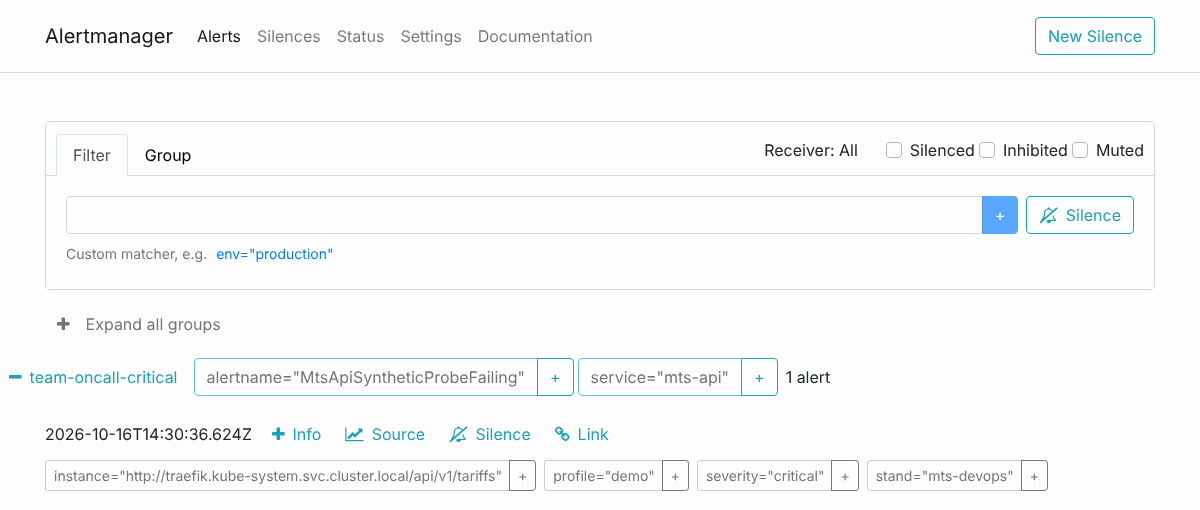
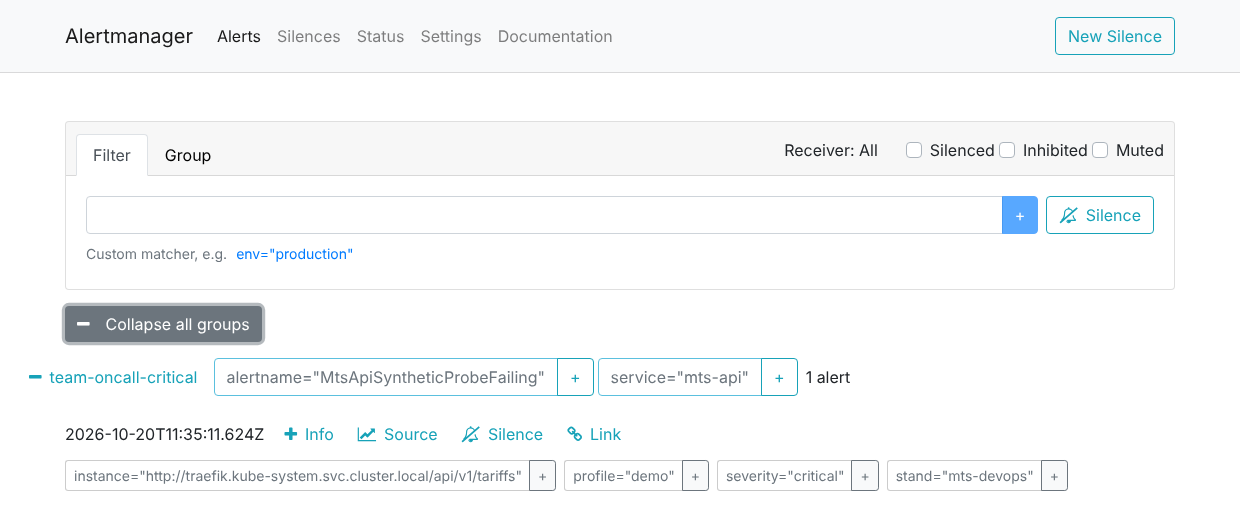
Удобство показа: цвета слотов в Grafana, пауза в demo-alert, исправлен отчёт
- Дашборд: слот blue рисуется синим, green — зелёным; трафик по слотам без
  наложения (видно, какой слот обслуживает пользователей); у панели доли 5xx
  мягкий максимум оси 10% вместо 10000% при нулевых ошибках.
- make demo-alert HOLD=60: сбой держится ещё N с после доставки алерта, чтобы
  на показе успеть открыть Prometheus, Alertmanager и Grafana; значение HOLD
  проверяется до внесения сбоя. По умолчанию поведение прежнее.
- Отчёт о релизе: длинные детали проверок обрезаются внутри code span, «|»
  экранируется — таблица в Markdown больше не ломается; добавлен unit-тест.
- make doctor: «есть доступ: …» вместо «доступен зеркало …».
- README и vm-guide: релиз 75–120 с (первый после перезапуска ВМ дольше —
  обновляется база Trivy), возврат трафика 0,3–1,4 с по всем откатам;
  свежие скриншоты Grafana, Prometheus и Alertmanager.

Claude-Session: https://claude.ai/code/session_01ExcNdxkWc3CDHqJqDTVn4J

diff --git a/scripts/pylib/alertdemo.py b/scripts/pylib/alertdemo.py
@@ -43,6 +43,9 @@ def run_demo(cfg: Config, timeout: float = 240) -> int:
                 raise RuntimeError("нет активного слота")
             deploy = slot_release(slot)
             replicas = int(kube.get_json("deployment", deploy)["spec"]["replicas"])
+            # HOLD=N: сбой держится ещё N с после доставки алерта, чтобы на показе успеть открыть
+            # Prometheus, Alertmanager и Grafana; значение проверяется до внесения сбоя
+            hold = max(0.0, cfg.num("ALERT_HOLD_SECONDS", 0))
             if _alert_state(prom):
                 raise RuntimeError(f"{ALERT} уже активен — дождитесь resolved перед демонстрацией")
             try:
@@ -73,6 +76,13 @@ def run_demo(cfg: Config, timeout: float = 240) -> int:
                         )
                         ok(f"Alertmanager получил алерт, маршрут → {receivers}")
                     time.sleep(2)
+                if hold and "alertmanager_received" in marks:
+                    log(f"держу сбой ещё {hold:g} с: алерт виден в Prometheus, Alertmanager и Grafana")
+                    report.event("fault_held", seconds=hold)
+                    end = time.time() + hold
+                    while time.time() < end:
+                        lock.check()
+                        time.sleep(min(2.0, max(0.0, end - time.time())))
             finally:
                 log(f"восстановление: возвращаю {deploy} к {replicas} репликам")
                 kube.kubectl("scale", "deployment", deploy, f"--replicas={replicas}")

diff --git a/scripts/tests/test_report.py b/scripts/tests/test_report.py
@@ -1,0 +1,35 @@
+"""Unit-тест Markdown-отчёта: длинные и содержащие «|» детали не ломают таблицу проверок."""
+
+from __future__ import annotations
+
+import unittest
+
+from pylib.report import render_markdown
+
+
+class ReportMarkdownTest(unittest.TestCase):
+    def test_check_cells_keep_table_intact(self) -> None:
+        data = {
+            "kind": "release",
+            "id": "v3-notready-1",
+            "decision": "rejected",
+            "reason": None,
+            "started_at": "t0",
+            "finished_at": "t1",
+            "timeline": [],
+            "checks": {
+                "candidate_ready": {"status": "failed", "summary": "helm: upgrade failed | Error: " + "x" * 600},
+                "preview": {"status": "passed", "summary": "16/16"},
+            },
+        }
+        rows = [line for line in render_markdown(data).splitlines() if line.startswith("| candidate_ready")]
+        self.assertEqual(len(rows), 1)
+        row = rows[0]
+        # code span закрыт, а «|» внутри него экранирован: в строке ровно 4 неэкранированных разделителя
+        self.assertEqual(row.count("`"), 2)
+        self.assertEqual(row.replace("\\|", "").count("|"), 4)
+        self.assertIn("…`", row)
+
+
+if __name__ == "__main__":
+    unittest.main()

diff --git a/scripts/pylib/report.py b/scripts/pylib/report.py
@@ -60,6 +60,16 @@ def _fmt(value) -> str:
     return str(value)
 
 
+def _cell(value, limit: int = 400) -> str:
+    """Ячейка Markdown-таблицы: обрезка внутри code span и экранирование «|» (иначе таблица ломается)."""
+    if isinstance(value, (dict, list)):
+        text = json.dumps(value, ensure_ascii=False)
+        if len(text) > limit:
+            text = text[:limit] + "…"
+        return "`" + text.replace("|", "\\|") + "`"
+    return _fmt(value).replace("|", "\\|")
+
+
 def render_markdown(d: dict) -> str:
     lines = [
         f"# Отчёт: {d['kind']} `{d['id']}`",
@@ -102,7 +112,7 @@ def render_markdown(d: dict) -> str:
         lines += ["", "## Проверки", "", "| проверка | статус | детали |", "|---|---|---|"]
         for name, c in d["checks"].items():
             extra = {k: v for k, v in c.items() if k not in ("status", "at")}
-            lines.append(f"| {name} | **{c['status']}** | {_fmt(extra)[:400]} |")
+            lines.append(f"| {name} | **{c['status']}** | {_cell(extra)} |")
     if d.get("rollback"):
         lines += ["", "## Возврат трафика", "", f"{_fmt(d['rollback'])}"]
     if d.get("tools"):

diff --git a/README.md b/README.md
@@ -35,7 +35,7 @@ make up
 | Команда | Что происходит | Время |
 |---|---|---|
 | `make verify` | 14 проверок работающего стенда: API, токен, метрики, алерты, Grafana | ~1 с |
-| `make release VERSION=v2` | новая версия: тесты → сборка → проверка уязвимостей → запуск рядом с рабочей → проверки → переключение трафика | ~75 с |
+| `make release VERSION=v2` | новая версия: тесты → сборка → проверка уязвимостей → запуск рядом с рабочей → проверки → переключение трафика | 75–120 с |
 | `make demo-failure` | версия с дефектом: после переключения появляются ошибки, трафик **автоматически возвращается** | ~45 с |
 | `make demo-alert` | настоящий сбой: алерт срабатывает, приходит в Alertmanager и снимается после восстановления | ~55 с |
 | `make rotate-secret` | замена API-токена без простоя: новый принимается, старый отклоняется | ~3 с |
@@ -55,14 +55,17 @@ make up
 
 ![make demo-failure](docs/images/rollback.png)
 
-**Дашборд Grafana.** Видно, какой слот обслуживает трафик, всплеск ошибок у неудачной версии и
-моменты переключения:
+**Дашборд Grafana.** Три минуты: релиз v2 (трафик перешёл на слот green) и неудачная v3-faulty
+(слот blue получил трафик на пару секунд, доля 5xx у него выросла, трафик вернулся на green).
+Оранжевые метки — моменты, когда слот начал получать трафик:
 
 ![Дашборд Grafana](docs/images/grafana.png)
 
 **Алерт.** Реальный сбой → алерт в Prometheus → уведомление в Alertmanager → восстановление:
 
 ![Алерт в Prometheus](docs/images/prometheus-alert.png)
+
+![Алерт в Alertmanager](docs/images/alertmanager.png)
 
 ![make demo-alert](docs/images/alert-terminal.png)
 
@@ -74,7 +77,7 @@ make up
 - **Холодный запуск** `make up` на чистой ВМ — 3 мин 17 с – 3 мин 40 с; повторный — около 20 с, ничего
   не меняет.
 - **Откат:** дефект замечается за 2–3 с после переключения, трафик возвращается на рабочую версию
-  за 0,4–0,5 с, после возврата — 85–88 запросов подряд без ошибок.
+  за 0,3–1,4 с (обычно около 0,5 с), после возврата — 85–88 запросов подряд без ошибок.
 - **Ресурсы:** пик памяти за полный прогон — около 2,2 ГиБ, на диске — около 9 ГБ.
 
 Подробности и отчёты — [`docs/validation/`](docs/validation/), матрица требований —
@@ -311,6 +314,8 @@ make up
 - **Как увидеть алерт:** `make demo-alert` останавливает экземпляры активной версии, ждёт
   срабатывания алерта и его доставки в Alertmanager, затем восстанавливает сервис и ждёт снятия
   алерта. В прогонах алерт срабатывал через 32–39 с после сбоя и снимался через 3–10 с после восстановления.
+  Для показа зрителям: `make demo-alert HOLD=60` держит сбой ещё 60 с после доставки алерта, чтобы
+  успеть открыть Prometheus, Alertmanager и Grafana.
 - **Учебные цели качества (SLI/SLO):** доступность бизнес-метода ≥ 99% за 5 минут, ошибки 5xx < 1%
   (порог алерта 5%, порог проверки релиза 2%), p95 < 250 мс (порог алерта 500 мс). Обычный p95
   этого сервиса — 5–10 мс.

diff --git a/docs/vm-guide.md b/docs/vm-guide.md
@@ -104,11 +104,11 @@ make up
 | Команда | Время | Ожидаемый результат |
 |---|---|---|
 | `make verify` | ~1 с | 14 проверок `[ OK ]`: API через ingress, ответ 401 без токена, расчёт с токеном, Prometheus targets, правила алертов, Grafana |
-| `make release VERSION=v2` | ~75 с | Полный CI → кандидат в неактивном слоте → preview → переключение → окно наблюдения → решение `promoted`. `make status` показывает `[ACTIVE ] green версия=v2` |
+| `make release VERSION=v2` | 75–120 с | Полный CI → кандидат в неактивном слоте → preview → переключение → окно наблюдения → решение `promoted`. `make status` показывает `[ACTIVE ] green версия=v2` |
 | `make demo-failure` | ~45 с | Версия с дефектом проходит preview, но после переключения отвечает 5xx. Трафик **автоматически возвращается** на прежний слот, решение `rolled_back`. Активной остаётся v2 |
 | `make demo-not-ready` | ~75 с | Кандидат не становится Ready → решение `rejected` **до** переключения. Пользователи не затронуты |
 | `make demo-no-metrics` | ~30 с | Prometheus временно выключен → релиз `rejected`: нет метрик — значит, нет и подтверждения успеха. Затем Prometheus возвращается |
-| `make demo-alert` | ~55 с | Реальный сбой → алерт `MtsApiSyntheticProbeFailing` проходит pending → firing → Alertmanager → восстановление → resolved |
+| `make demo-alert` | ~55 с | Реальный сбой → алерт `MtsApiSyntheticProbeFailing` проходит pending → firing → Alertmanager → восстановление → resolved. На показе: `make demo-alert HOLD=60` держит сбой ещё 60 с после доставки алерта — успеете открыть Prometheus, Alertmanager и Grafana |
 | `make rotate-secret` | ~3 с | Новый токен работает во всех pod обоих слотов, старый отклоняется (401) |
 | `make verify-security` | ~10 с | 17 проверок: non-root, read-only FS, NetworkPolicy, RBAC, шифрование Secret |
 | `make status` | ~1 с | Активный слот, версии, история решений |

diff --git a/docs/testing.md b/docs/testing.md
@@ -9,6 +9,7 @@
 |---|---|---|---|
 | Unit: приложение (26) | Расчёт стоимости и округление, валидация (422), ответы 401/404, состояния Ready/не Ready, детерминированность учебных неисправностей, перечитывание токенов при ротации, кардинальность меток, отсутствие токена в логах | `app/tests/` | `scripts/ci.sh test` (pytest в образе `target=test`, read-only FS, UID 10001) |
 | Unit: gate (17) | Gate — автоматическая проверка релиза по метрикам. Нет данных, NaN, пустой вектор, мало трафика или устаревшие серии → провал. Также проверяются доля ошибок, p95, доля трафика кандидата, ранняя остановка и определение момента переключения | `scripts/tests/test_gate.py` | `scripts/ci.sh test` |
+| Unit: отчёт (1) | Markdown-отчёт о релизе: длинные детали проверок и символ «\|» в сообщениях об ошибках не ломают таблицу | `scripts/tests/test_report.py` | `scripts/ci.sh test` |
 | Правила Prometheus (6 групп) | Алерт пробы проходит pending → firing → resolved. Алерт «нет данных». Доля 5xx с порогом трафика. Нулевой трафик не даёт ложного алерта. p95 по histogram | `observability/tests/rules.test.yml` | `scripts/ci.sh validate` (`promtool test rules`) |
 | Статические проверки | ruff, yamllint, shellcheck, поиск секретов в Git и Trivy fs, `helm lint --strict` и JSON-схемы (тег вместо digest отклоняется), `promtool check config`, `amtool check-config`, проверка дашборда и исключений Trivy | `scripts/ci.sh lint validate` | `make ci` |
 | Интеграция / приёмка (15 сценариев) | Сквозные (E2E) проверки на реальном стенде, список ниже | `scripts/e2e.sh` | `make test-e2e` |

diff --git a/docs/requirements.md b/docs/requirements.md
@@ -33,7 +33,7 @@
 |---|---|---|---|---|
 | Кейс, п. 2: запуск по push | GitHub Actions запускается на push в любую ветку и на PR | `.github/workflows/ci.yml` | прогоны Actions (`docs/validation/github-actions.md`) | ✅ |
 | Кейс, п. 2: линт | ruff (app, scripts), yamllint, shellcheck, поиск секретов | `scripts/ci.sh lint` | `make ci` | ✅ |
-| Кейс, п. 2: unit-тесты | pytest (26 тестов) в образе `target=test`; unittest для gate (17 тестов) | `app/tests/`, `scripts/tests/` | `scripts/ci.sh test` | ✅ |
+| Кейс, п. 2: unit-тесты | pytest (26 тестов) в образе `target=test`; unittest для gate (17 тестов) и отчёта о релизе (1) | `app/tests/`, `scripts/tests/` | `scripts/ci.sh test` | ✅ |
 | Проект: проверка конфигурации | helm lint и JSON-схемы, promtool check/test, amtool, проверка дашборда и исключений Trivy | `scripts/ci.sh validate` | `scripts/ci.sh validate` | ✅ |
 | Кейс, п. 2: сборка Docker-образа | Многостадийный Dockerfile. Приложение работает от UID 10001, в итоговом образе нет pip | `app/Dockerfile` | `scripts/ci.sh build` | ✅ |
 | Кейс, п. 2: Trivy | Поиск уязвимостей и секретов, политика блокировки. В отчёте указаны версия и дата базы Trivy | `scripts/ci.sh scan`, `scripts/cihelper.py` | `.local/artifacts/*/trivy-summary.json` | ✅ |
